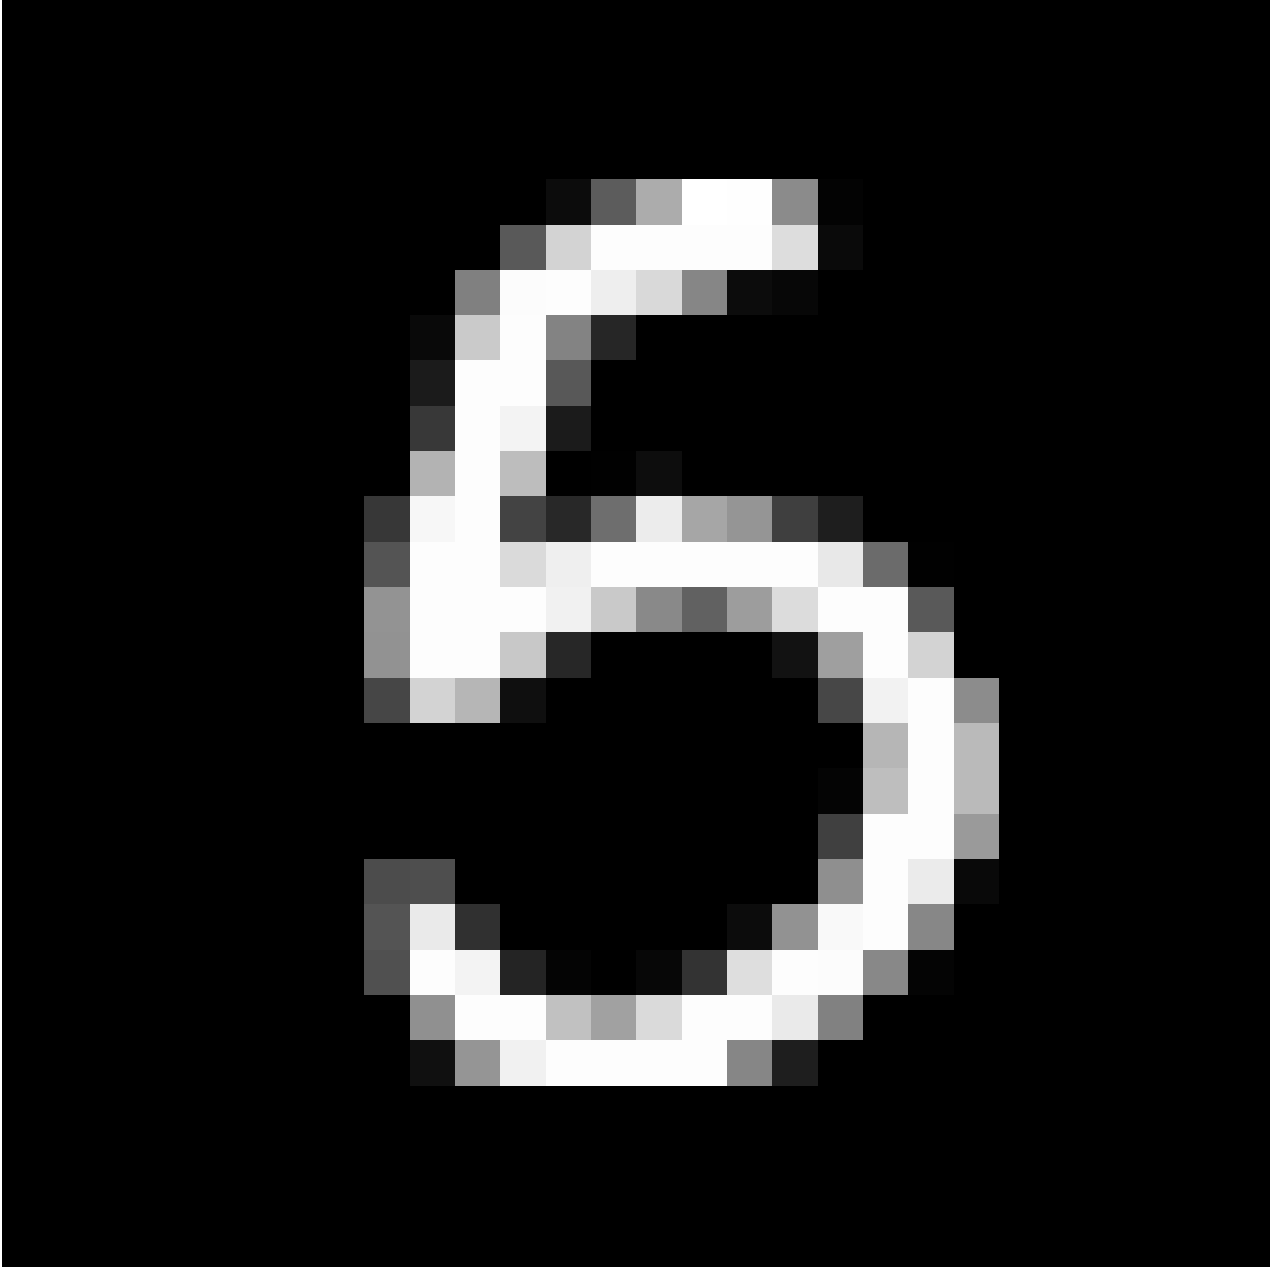
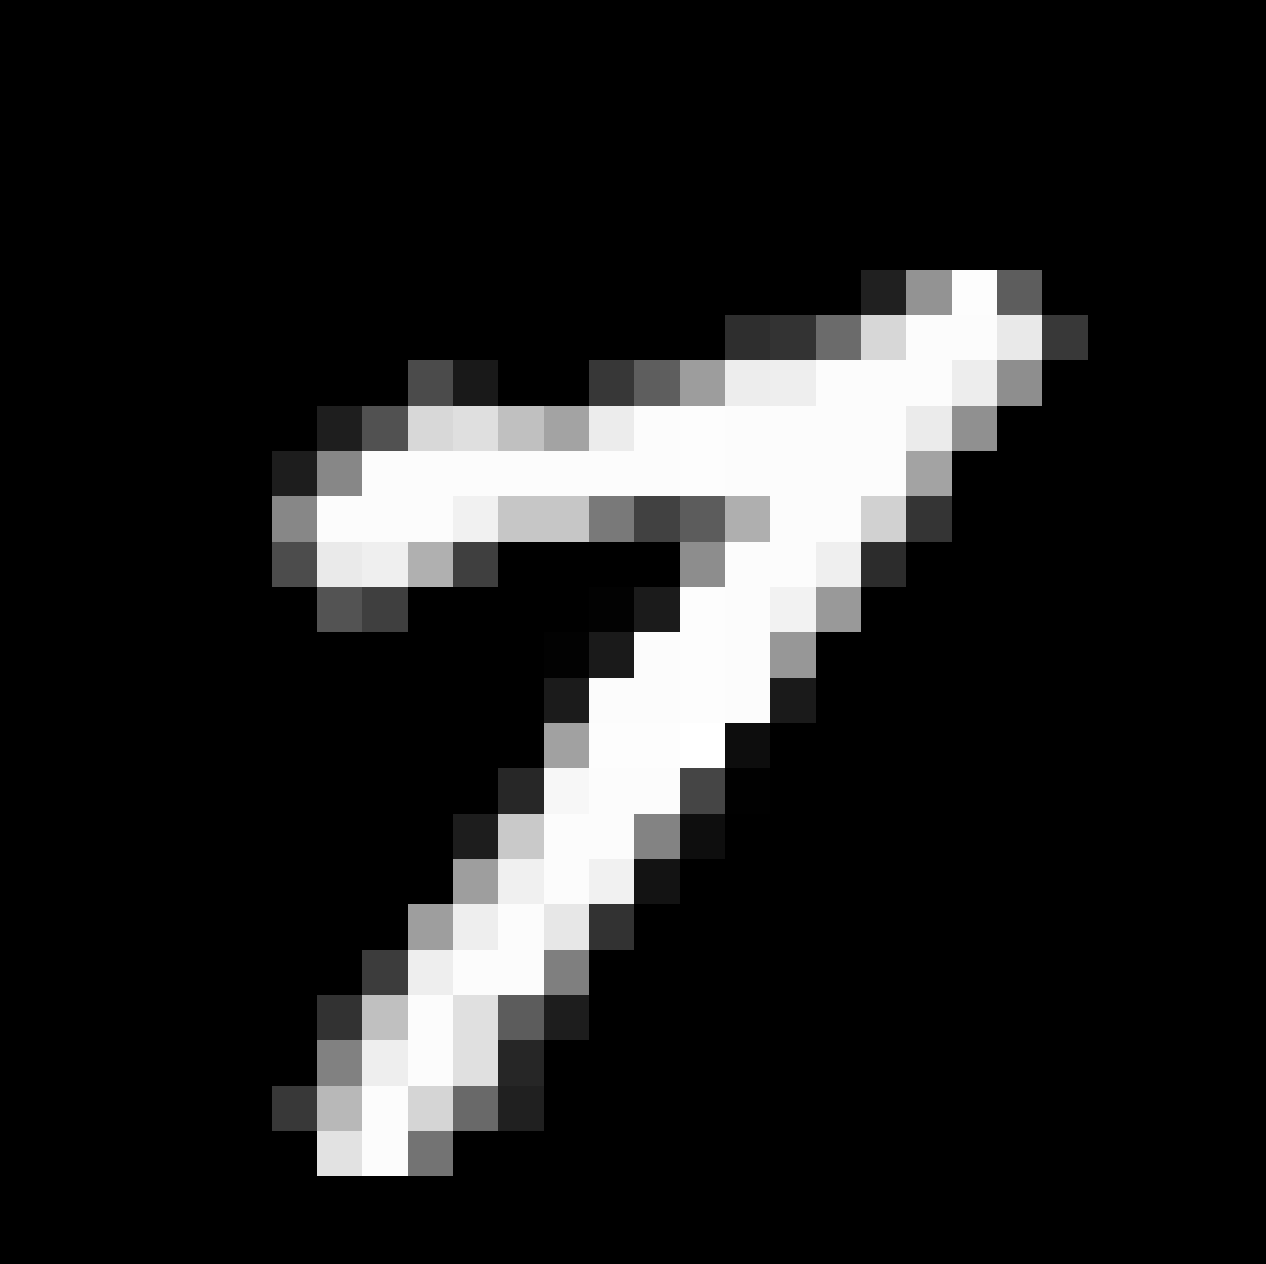
Tidy up and use better example for MNIST showcase

Changed region(s): [[0.2156, 0.1234, 0.8626, 0.9565], [0.0, 0.9873, 0.0308, 1.0]]

diff --git a/README.md b/README.md
@@ -1,20 +1,20 @@
 # Concept backpropagation
 
 
-![Example](header.png)
+![Example](images/header.png)
 
 Corresponding paper: [https://arxiv.org/abs/2307.12601](https://arxiv.org/abs/2307.12601)
 
 ## Description
 This project implements concept backpropagation, a method for visualising how a given concept (found through standard concept detection) is represented in a probed neural network model. Simply put, for a neural network model, an input sample, and a trained concept probe that indicates the presence of the given concept in one of the intermediary layers of the model, the method aims to find the smallest perturbation that maximises the detection of the concept. 
 
-![Example](main_figure.png)
+![Example](images/main_figure.png)
 
-In practical cases, this means altering chess positions in order to maximise threats on certain pieces, or maximising the "loopiness" of standard MNIST digits.
+In practice, this means altering chess positions in order to maximise threats on certain pieces, or maximising the "loopiness" of standard MNIST digits.
 
 ## How do I run it?
 This codebase includes routines for the application areas described in the corresponding paper. The chess models and chess-related concept datasets were retrieved from the repository for [Explainable Minichess](https://github.com/patrik-ha/explainable-minichess).
 
 All the experiments are provided through standard Python notebooks. They should work for standard versions of Python, with varying versions of scientific Python packages. (i.e. Tensorflow and Numpy) They also require the [larq](https://github.com/larq/larq)-package.
 
-The main method remains mostly the same in most of the notebooks, and can as such be adapted to other problem cases.
+The main method remains mostly the same in all of the notebooks, and is as such quite simple to adapt to other problems.
